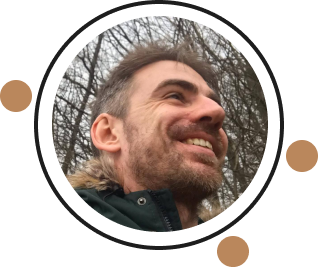
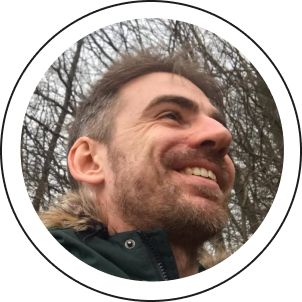
CV sidebar, layout
- curriculum layout scales up to 1240px 
- Adjusted sidebar content accordingly
- made the sidebar sticky so the image is always visible

diff --git a/pages/curriculum/curriculum.module.scss b/pages/curriculum/curriculum.module.scss
@@ -1,8 +1,17 @@
 @import "styles/_variables";
 
 .container {
-  max-width: 1024px;
+  max-width: $max-content-width;
+  width: 100%;
+}
+
+.cvContent {
   margin: 0 auto;
+  padding: map-get($spacing-sizes, "1") map-get($spacing-sizes, "2");
+}
+
+.lastText {
+  margin-bottom: map-get($spacing-sizes, "3");
 }
 
 .section {
@@ -13,23 +22,25 @@
   display: none;
 }
 
-@media only screen and (min-width: 1024px) {
+@media only screen and (min-width: 1023px) {
   .container {
     display: grid;
-    grid-template-columns: auto 307px;
+    grid-template-columns: 0.7002fr 0.2998fr;
   }
   .sidebar {
     align-items: flex-start;
     background-color: $accent-dark-green;
     display: flex;
+    height: calc(
+      100vh - map-get($spacing-sizes, "1") - map-get($spacing-sizes, "1") - 87px
+    );
     justify-content: center;
     padding: map-get($spacing-sizes, "1");
+    position: sticky;
+    right: 0;
+    top: 0;
     width: calc(
       100% - map-get($spacing-sizes, "1") - map-get($spacing-sizes, "1")
     );
   }
-}
-
-.lastText {
-  margin-bottom: map-get($spacing-sizes, "3");
 }

diff --git a/pages/curriculum/index.tsx b/pages/curriculum/index.tsx
@@ -16,8 +16,8 @@ const Home = () => (
       ></meta>
     </Head>
 
-    <div className={`${styles.container}`}>
-      <div className="content-container">
+    <div className={styles.container}>
+      <div className={styles.cvContent}>
         <section className={styles.section} data-testid="personal-information">
           <h2 className="heading-2">Personal Information</h2>
           <p className="text">
@@ -236,11 +236,9 @@ const Home = () => (
         /> */}
         <Image
           alt="Portrait photo of Miha Šušteršič"
-          height={179.12}
-          layout="fixed"
+          layout="intrinsic"
           src={profileSrc}
           quality={100}
-          width={214.9}
         />
       </div>
     </div>
